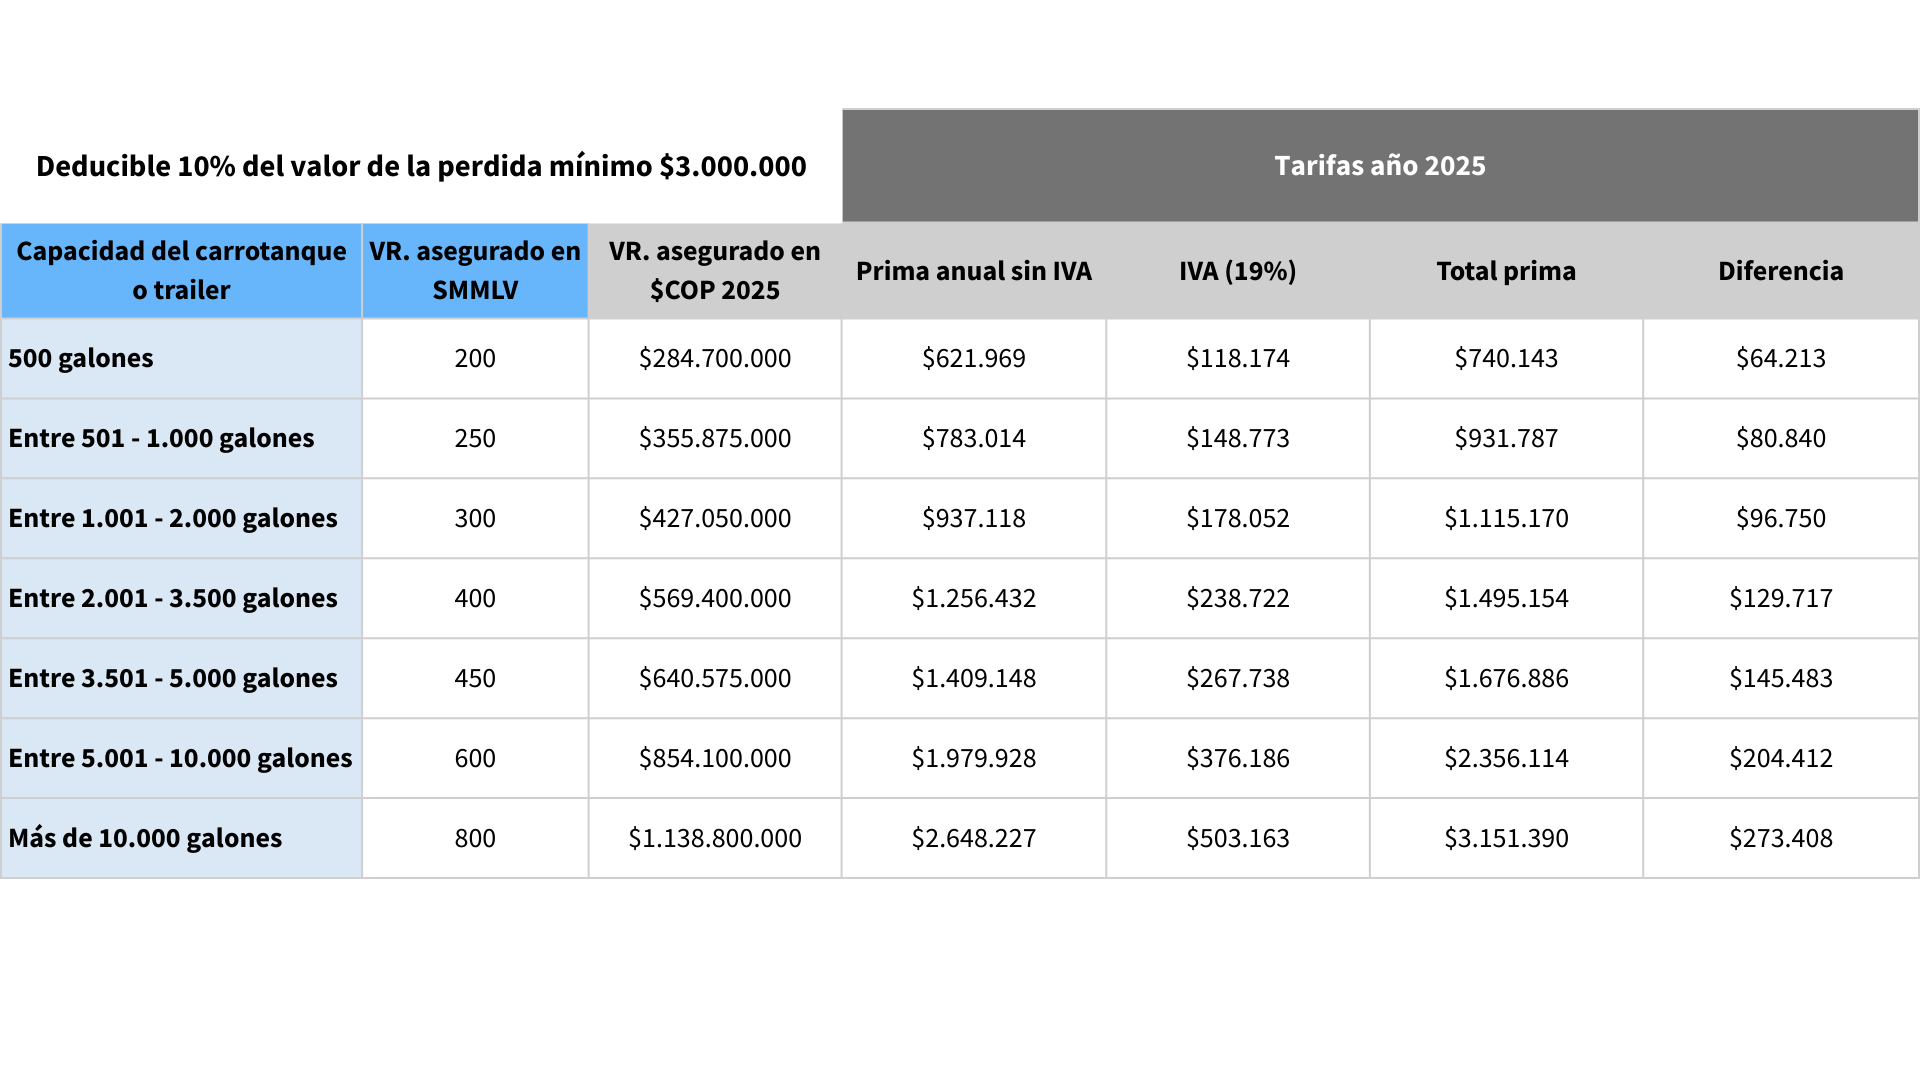
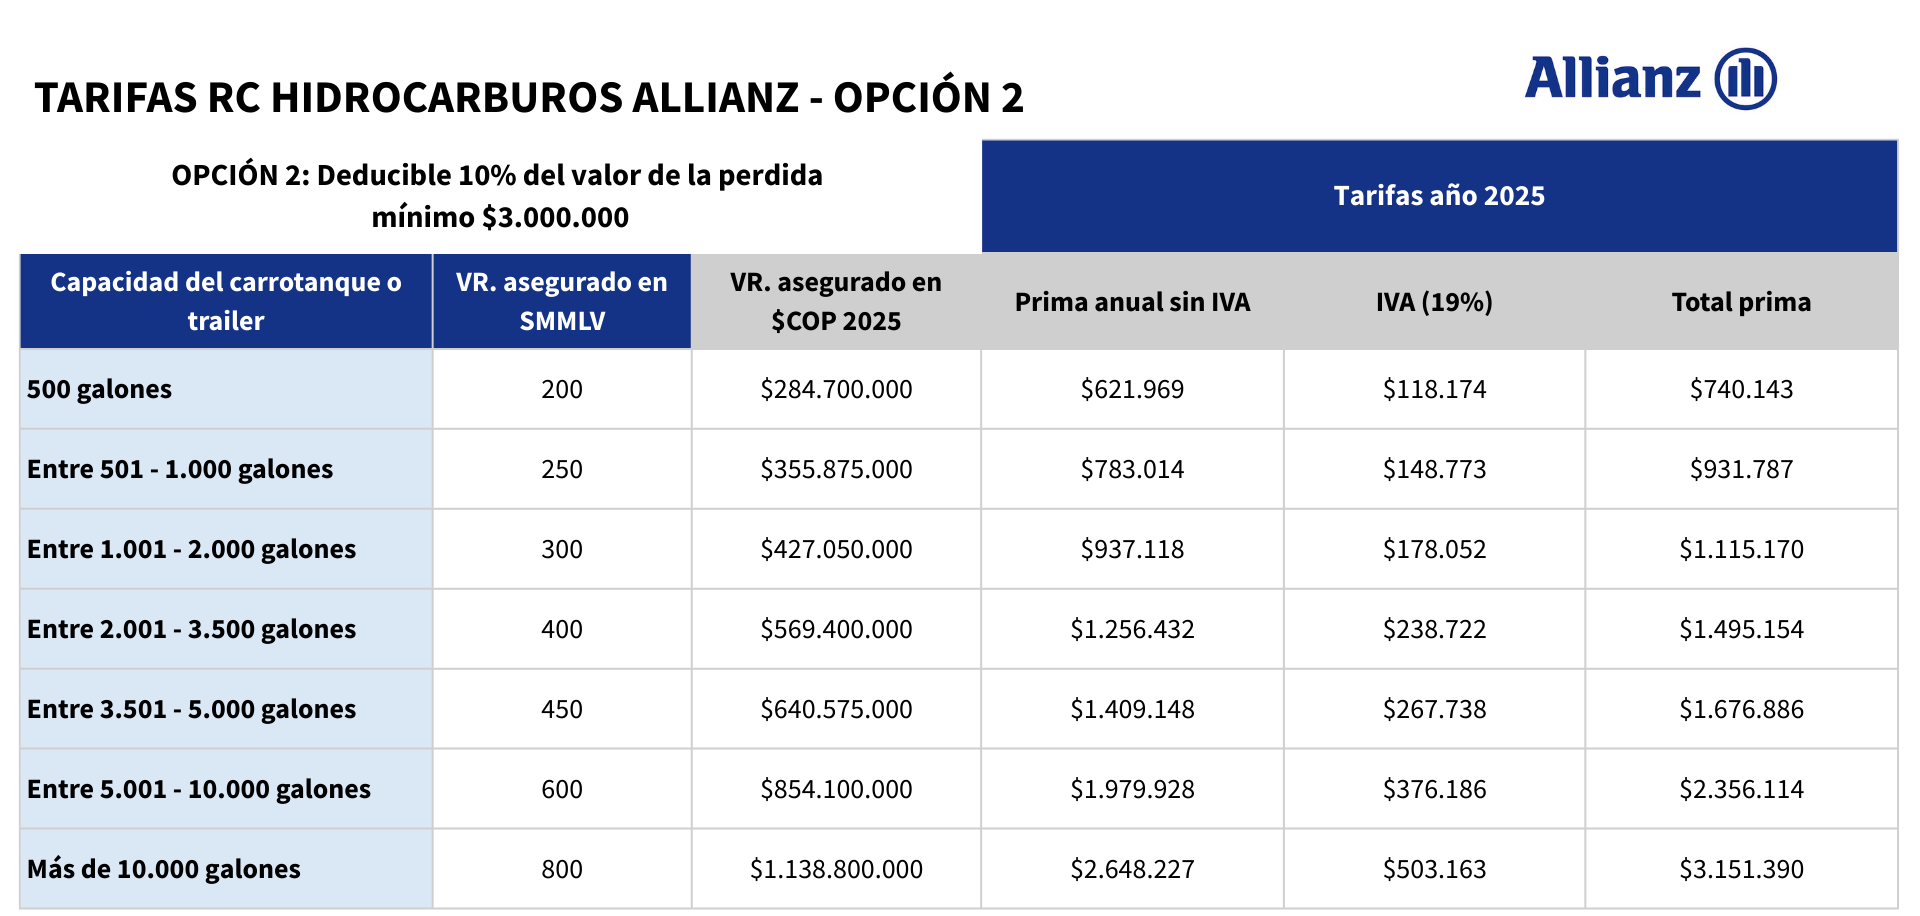
Fix(hidrocarburos): Cambio de imagenes, ajuste en menu y alineacion en cards

diff --git a/vistas/modulos/hidrocarburos.php b/vistas/modulos/hidrocarburos.php
@@ -322,7 +322,7 @@
                             <div class="card-body" style="margin: 0; padding: 0;">
                                 <h4 class="card-title;" style="font-weight: bold;"></h4>
                                 <img src="vistas/img/plantilla/logo-hidrocarburos.png" class="img-fluid mx-auto" style="max-width: 50%; margin: 0px; margin-bottom: 30px;">
-                                <p class="card-text; margin-top: 10px" style="font-size: 15px;">Consulta la presentación del producto RCE Hidrocarburos <b><a href="https://grupoasistencia.com/pdfHidrocarburos/RC HIDROCARBUROS - Integradoor.pdf" target="_blank"><u> AQUÍ</u></a></b></p>
+                                <p class="card-text; margin-top: 10px" style="font-size: 15px;">Consulta la presentación del producto RC Hidrocarburos <b><a href="https://grupoasistencia.com/pdfHidrocarburos/RC HIDROCARBUROS - Integradoor.pdf" target="_blank"><u> AQUÍ</u></a></b></p>
                             </div>
                         </div>
                     </div>
@@ -376,8 +376,8 @@
                                     <li>Responsabilidad civil contaminación accidental.</li>
                                     <li>Gastos de limpieza y/o biorremediación.</li>
                                     <li>Gastos médicos.</li>
-                                </ul><br>
-                                <h4 class="card-title" style="font-weight: bold;">Clausulado</h4>
+                                </ul>
+                                <h4 class="card-title" style="font-weight: bold;">Clausulado</h4><br>
                                 <p class="card-text">Para conocer más del Seguro <b>RC Hidrocarburos</b> de Allianz ingresa <b><a href="https://grupoasistencia.com/pdfHidrocarburos/Clausulado Responsabilidad-Civil-Extracontractual-Hidrocarburos-16-01-2023.pdf" target="_blank"><u> AQUÍ</u></a></b></p>
                             </div>
                         </div>
@@ -389,12 +389,12 @@
                             <div class="card-body">
                                 <h4 class="card-title" style="font-weight: bold;">Políticas de Suscripción</h4><br>
                                 <p class="card-text">Estas son algunas de las políticas de suscripción, las cuales pueden cambiar en cualquier momento, sin previo aviso:</p>
-                                <ul class="card-text" style="padding-left: 0px; list-style-position: inside;">
-                                    <li>Edad máxima de antigüedad del vehículo: 20 años</li>
-                                    <li>Edad máxima de repotenciación del vehículo: 12 años</li>
+                                <ul class="card-text lista-politicas" style="padding-left: 20px;">
+                                    <li>Edad máxima de antigüedad del vehículo: 20 años.</li>
+                                    <li>Edad máxima de repotenciación del vehículo: 12 años.</li>
                                     <li>Aplica para Carrotanques, Remolque - Trailer (tanque).</li>
                                     <li>No esta permitido cotizar y/o emitir para Volquetas o carrotanques que transporten gas.</li>
-                                    <li>Al emitir tener presente la inclusión de los trailer respectivos para que queden incluidos de una vez en la póliza (máximo 3)</li>
+                                    <li>Al emitir tener presente la inclusión de los trailer respectivos para que queden incluidos de una vez en la póliza (máximo 3).</li>
                                     <li>Reporte al SICOM, es responsabilidad del cliente, no de la compañía de seguros.</li>
                                 </ul>
                             </div>
@@ -406,7 +406,7 @@
                         <div class="card-exequias">
                             <div class="card-body text-center">
                                 <h4 class="card-title" style="font-weight: bold;">Comisión</h4><br>
-                                <p class="card-text">La comisión base que nos ofrece Allianz Seguros para nuestra alianza de asesores es del x%. De este porcentaje, tu participación será de acuerdo al nivel de ventas de todos los negocios (sin IVA), sumando todos los ramos, que realices en el mes.</p>
+                                <p class="card-text">La comisión base que nos ofrece Allianz Seguros para nuestra alianza de asesores es del 15%. De este porcentaje, tu participación será de acuerdo al nivel de ventas de todos los negocios (sin IVA), sumando todos los ramos, que realices en el mes.</p>
                                 <ul class="card-text" style="padding-left: 0px;">
                                     <li style="list-style-type: none;">Primas mensuales inferiores a 8 SMMLV: 70%</li>
                                     <li style="list-style-type: none;">Primas mensuales superiores a 8 SMMLV: 75%</li>
@@ -428,12 +428,14 @@
             
             <div>
                 <img class="img-opcion" src="vistas/img/plantilla/Opcion1-hidrocarburos.png" alt="opcion 1">
+                <p class="img-opcion" style="text-align: right; margin-bottom: 50px; font-weight: bold;">Descargar imagen <a href="vistas\img\plantilla\Opcion1-hidrocarburos.png" download="Opcion-1.png" style="color: #4fc0fc; font-weight: bold;">AQUÍ</a></p>
                 <img class="img-opcion" src="vistas/img/plantilla/Opcion2-hidrocarburos.png" alt="opcion 2">
+                <p class="img-opcion" style="text-align: right; margin-bottom: 50px; font-weight: bold;">Descargar imagen <a href="vistas\img\plantilla\Opcion2-hidrocarburos.png" download="Opcion-2.png" style="color: #4fc0fc; font-weight: bold;">AQUÍ</a></p>
             </div>
 
             <!-- //FORMULARIO -->
             <div class="content-link" style="margin-top: -5px;" data-evaluar="si">
-                <p style="font-size: 19px;"><strong>Solicita una cotización en el siguiente formulario ingresando</strong> <b style="font-size: 17px;"><a href="https://forms.gle/bHw1SYtGS9p22TJs7" target="_blank"><u>AQUÍ</u></a></b></p>
+                <p style="font-size: 19px; margin-bottom: 30px;"><strong>Solicita una cotizacion oficial de Allianz diligenciando el siguiente formulario (ICONO)</strong> <b style="font-size: 17px;"><a href="https://forms.gle/bHw1SYtGS9p22TJs7" target="_blank"><u>AQUÍ</u></a></b></p>
             </div>
 
 

diff --git a/vistas/modulos/menu.php b/vistas/modulos/menu.php
@@ -242,7 +242,7 @@ checkUserStatus();
 				echo '<li id="menuCotHidro" class="' . ($currentPage == 'hidrocarburos' ? 'active' : '') . '">
 				<a href="hidrocarburos">
 				<i class="fa-solid fa-truck-droplet" style="font-size: 16px"></i>
-				<span>Cotizar Hidrocarburos</span>
+				<span>Cotizar RC Hidrocarburos</span>
 				</a>
 			</li>';
 			}
